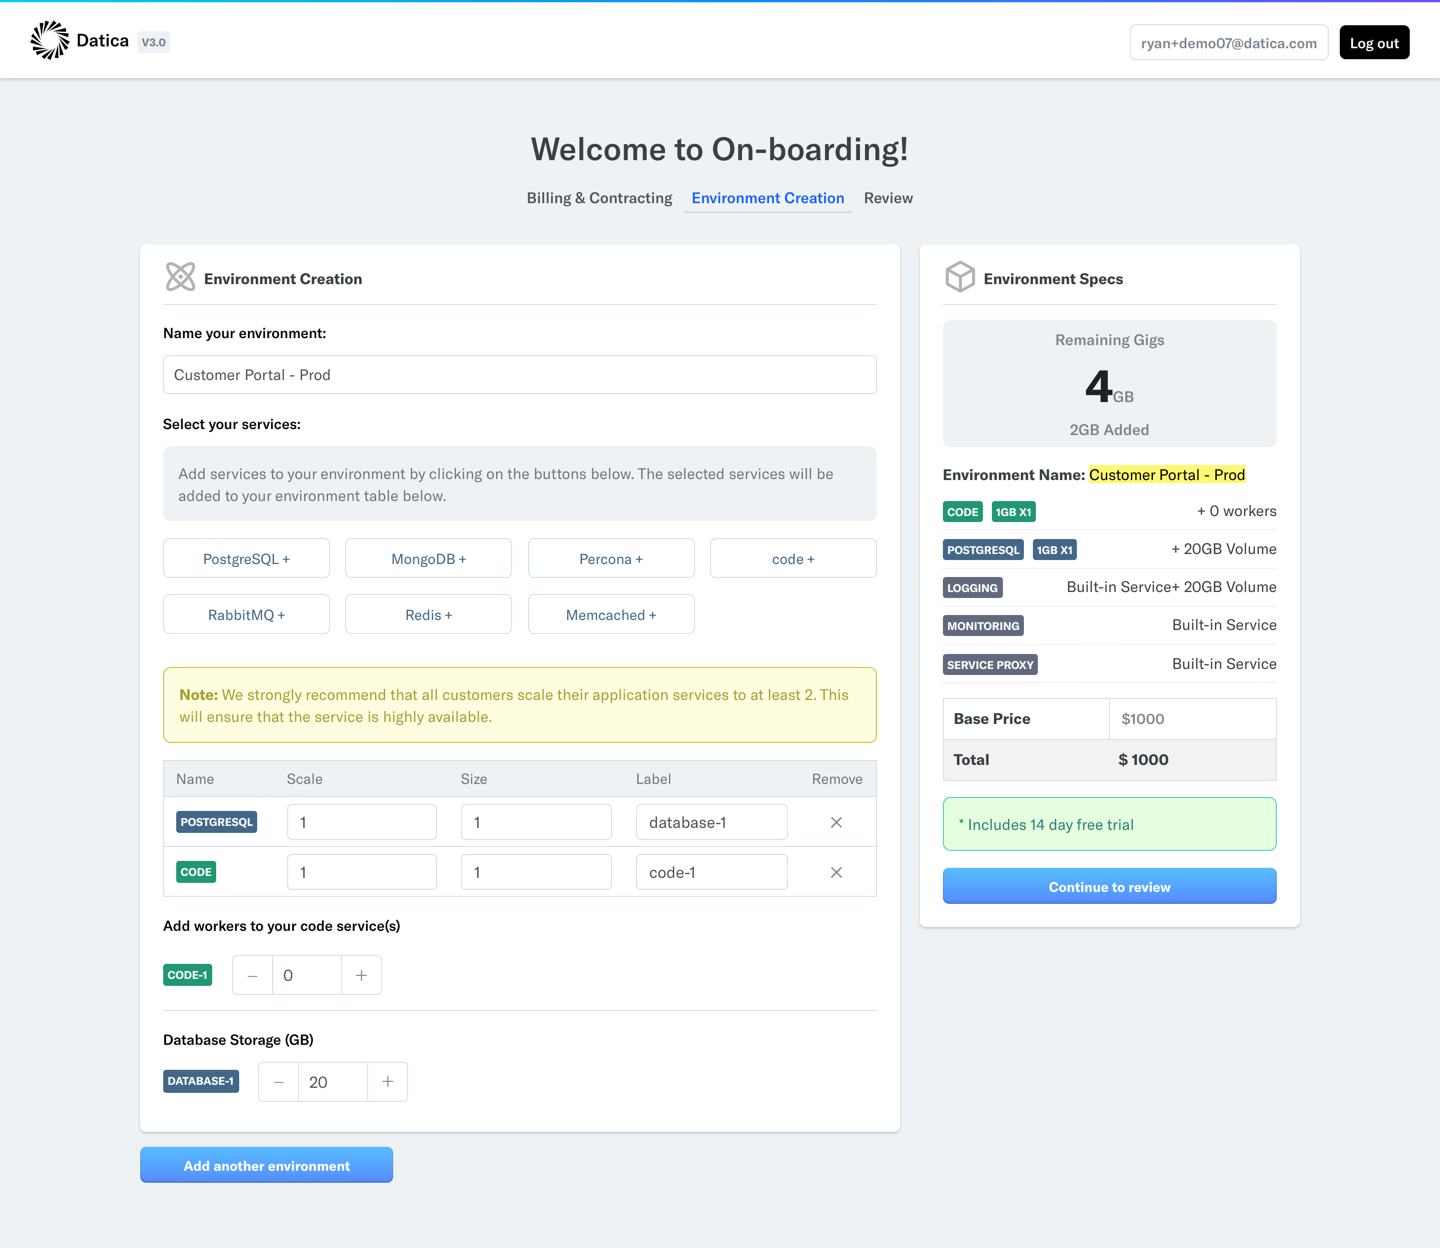
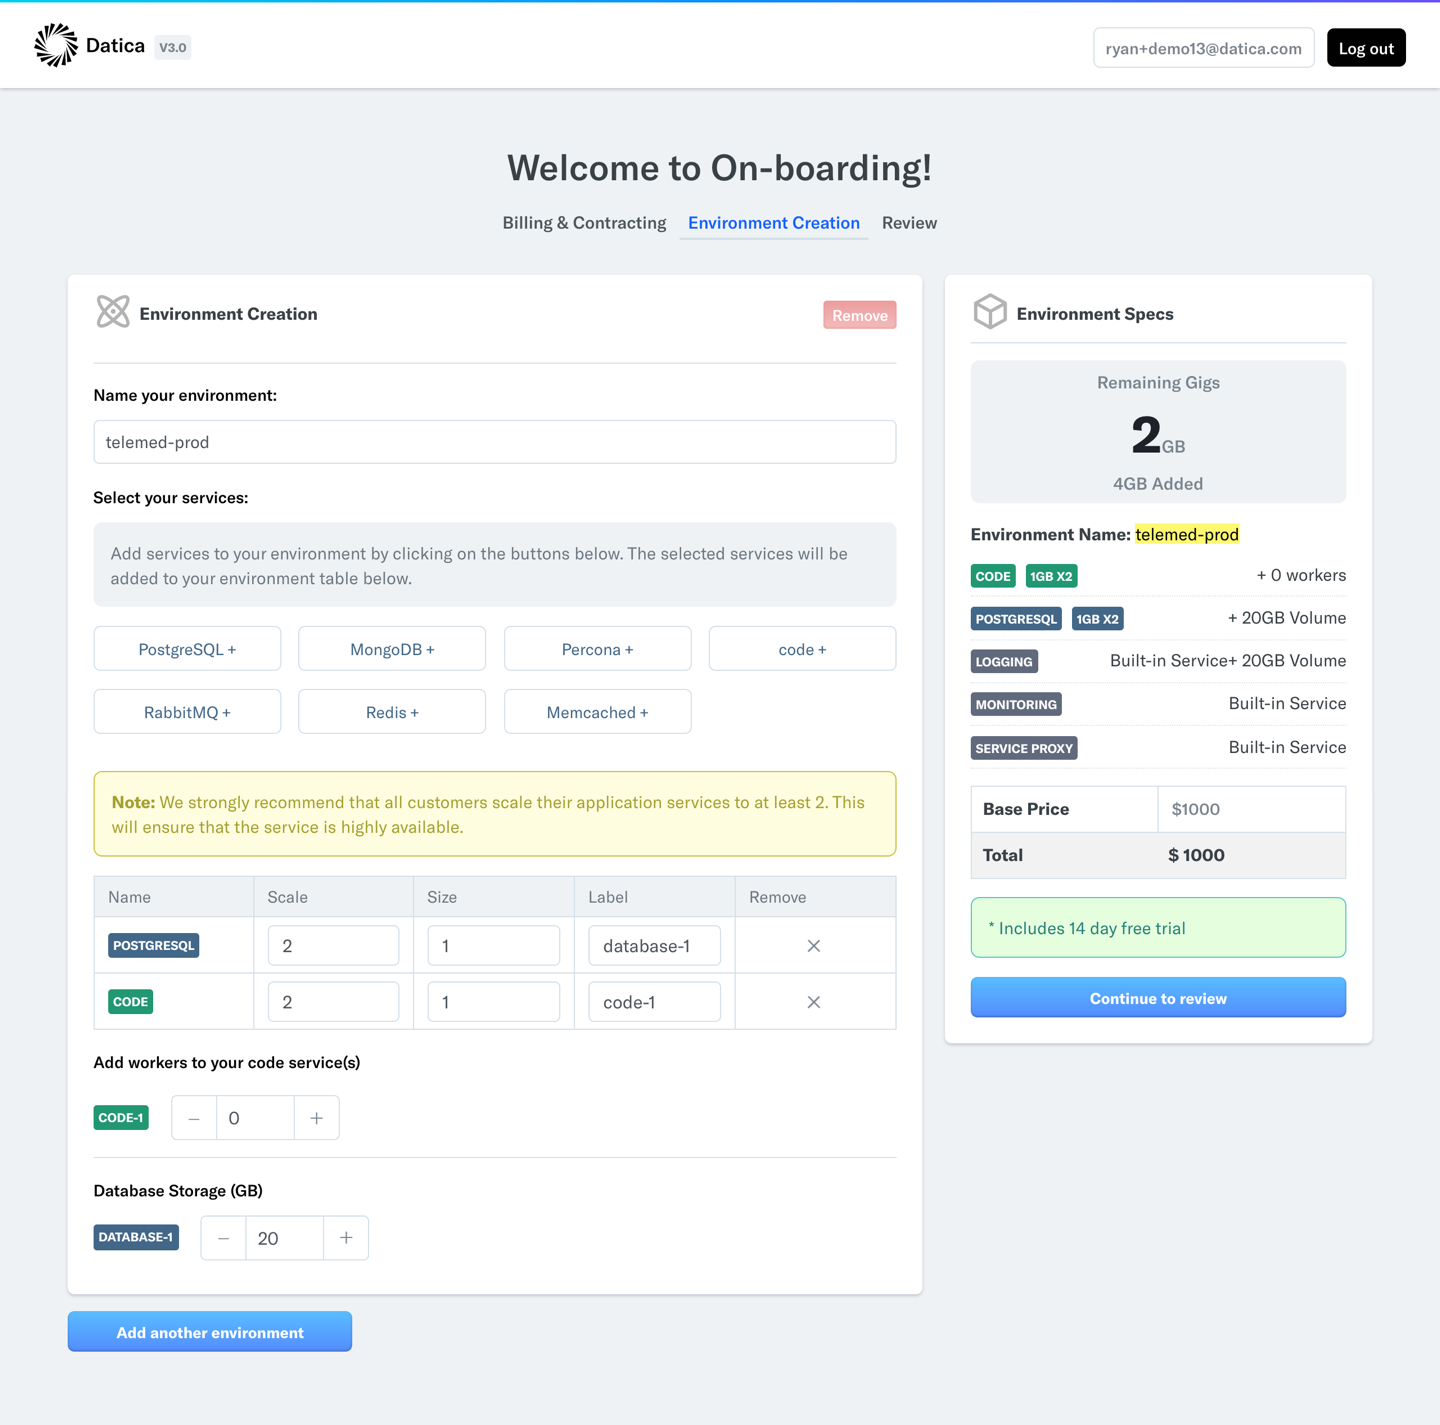
Working on the on-boarding doc

diff --git a/on-boarding.md b/on-boarding.md
@@ -39,12 +39,31 @@ After you've typed out the name of your organization the next step is to choose 
 Once a plan is selected you'll have access to input your billing details in the form of a credit card. **Note:** We will never charge you without clearly indicating that we are doing so. We require a credit card up front to spec out an environment, however we will not charge you until that environment is provisioned. The one exception to that rule is when a customer's environment qualifies for a 14-day free trial, for which we will not charge you until the free trial is over.
 
 ## Onboarding - Environment Creation
-Now we're cooking! So you've created a new organization, have input your billing details, and now you're ready to create a new environment.
+Now we're cookin'! So you've created a new organization, have input your billing details, and now you're ready to create a new environment.
 
-**The first step is to name your environment.** This name should semantic and concise.
+**The first step is to name your environment.** This name should be semantic and concise.
 
 Once you have your name picked out **the next thing you'll want to do is select the services you need**. Datica's Platform abstracts away many of infrastructure complexities that you'd otherwise have to deal. What this means is that you'll get things like Load Balancing, Logging, Monitoring, Intrusion Detection, Backups, Disaster Recovery, and much more all out of the box. There is no additional configuration need on Datica to make these things work.
 
 As such, the only thing you need to do during this step is simply select the building blocks required to make your application run. See the image below as an example:
 
 ![On-boarding - Environment Creation](images/onboarding_env_creation.png)
+
+We call these building blocks services. Each environment comes with the following services automatically:
+
+- Logging: This service is required for full HIPAA and HITRUST compliance. Datica utilizes an open source tool called Kibana to provide a logging dashboard for our customers.
+- Monitoring: Another service required for full HIPAA and HITRUST compliance, monitoring is provided via an open source dashboard for Sensu called uchiwa.
+- Service proxy: The Service Proxy is a special service in each environment that is responsible for routing traffic from the outside world into your environment’s network, to specific code services. This is configured using sites. The service proxy is the only service exposed outside of your environment’s network - all external (non-console, non-VPN) traffic goes through it and is proxied to other services.
+
+**Note:** For your first Datica environment these services are covered under the base fee. For each additional environment they are billed at our standard services size fee ($100/month per 1GB of Ram).
+
+Outside of our built-in utility services each customer has the opportunity to add a number of other services. These include databases, caches, messaging services, and code services alike. In the example above you'll see two services selected:
+
+- PostgreSQL
+- code
+
+Both of these services are scaled to a size of 2. This is highly recommended. This will ensure your application is highly available.
+
+You'll also notice that the size of these services is set to 1. This means that each service will have a dedicated 1GB of Ram. Let's look at the math on that…
+
+A free trial comes with 6GB of Ram. In the example above there are two services. Each with a scale of 2 and a size of 1. That means we've used a total of 4GB out of our allotted 6. For quick reference see the environment creation sidebar. At the top you'll see your bucket of available ram. Now to be clear, you can add additional ram, however anything outside for the allotted 6GB will void the free trial.
